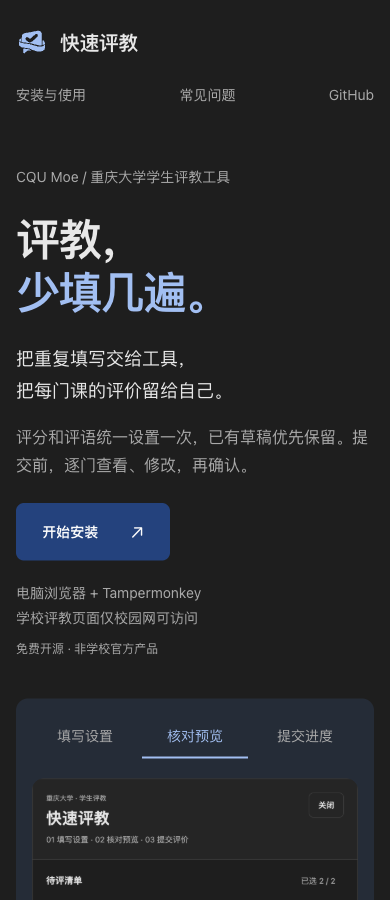
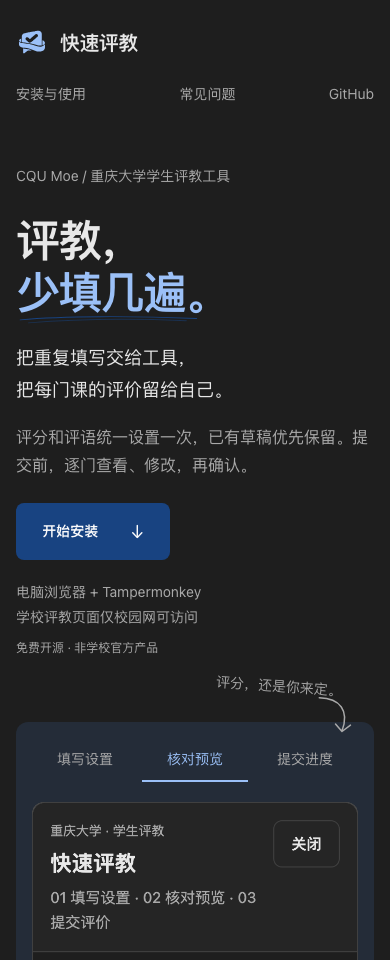
Refine landing hero with hand-drawn accents

diff --git a/website/public/style.css b/website/public/style.css
@@ -28,9 +28,11 @@ a:focus-visible, button:focus-visible, summary:focus-visible { outline: 2px soli
 .version { color: var(--muted-foreground); font: var(--text-xs)/1.8 var(--font-mono); }
 nav { display: flex; gap: var(--space-8); align-items: center; }
 nav a { display: inline-flex; align-items: center; justify-content: center; min-height: 44px; min-width: 44px; color: var(--muted-foreground); font-size: var(--text-sm); }
-.hero { display: grid; grid-template-columns: minmax(0, 1fr) minmax(0, 1.15fr); gap: var(--space-10); align-items: center; padding-block: var(--space-10) calc(var(--space-12) * 2); }
+.hero { display: grid; grid-template-columns: minmax(0, 1fr) minmax(0, 1.15fr); gap: var(--space-10); align-items: center; padding-block: calc(var(--space-8) * 2) calc(var(--space-12) * 2); }
 .eyebrow { font-size: var(--text-sm); color: var(--muted-foreground); margin-bottom: var(--space-8); }
-.hero h1 span { color: var(--brand-ink); }
+.hero h1 span { position: relative; display: inline-block; color: var(--brand-ink); }
+.headline-mark { position: absolute; left: 0; bottom: -.14em; width: 88%; height: .2em; fill: none; stroke: var(--brand-solid); stroke-width: 2; stroke-linecap: round; pointer-events: none; }
+.headline-mark path:last-child { opacity: .5; }
 .hero-description { color: var(--foreground); font-size: var(--text-xl); margin-top: var(--space-8); line-height: 1.8; }
 .hero-detail { max-width: 25em; color: var(--muted-foreground); margin-block: var(--space-4) var(--space-8); }
 .requirements { color: var(--muted-foreground); font-size: var(--text-sm); margin-top: var(--space-5); }
@@ -44,13 +46,15 @@ nav a { display: inline-flex; align-items: center; justify-content: center; min-
 .button.secondary:active { background: var(--muted); }
 .text-link { display: inline-flex; align-items: center; gap: var(--space-3); min-height: 44px; color: var(--link); font-size: var(--text-sm); text-decoration: underline; text-underline-offset: 5px; text-decoration-color: var(--border); }
 .micro { color: var(--muted-foreground); font-size: var(--text-xs); margin-top: var(--space-4); }
-.product-scene { margin: 0; width: 100%; min-width: 0; padding: var(--space-6); background: var(--brand-soft); border-radius: var(--radius-lg); }
+.product-scene { position: relative; margin: 0; width: 100%; min-width: 0; padding: var(--space-6); background: var(--brand-soft); border-radius: var(--radius-lg); }
+.scene-note { position: absolute; top: -48px; right: var(--space-8); color: var(--muted-foreground); font-size: var(--text-sm); transform: rotate(4deg); pointer-events: none; }
+.scene-note svg { position: absolute; width: 42px; height: 42px; top: 18px; right: -16px; fill: none; stroke: currentColor; stroke-width: 1.5; stroke-linecap: round; stroke-linejoin: round; }
 .demo-switch { display: flex; gap: var(--space-1); margin-bottom: var(--space-5); }
 .demo-switch button { flex: 1; min-height: 44px; padding: var(--space-2); border: 0; border-bottom: 2px solid transparent; background: transparent; color: var(--muted-foreground); font-size: var(--text-sm); white-space: nowrap; }
 .demo-switch button[aria-pressed='true'] { color: var(--brand-ink); border-bottom-color: currentColor; }
 .demo-window { border-radius: var(--radius-lg); overflow: hidden; aspect-ratio: 576/608; background: var(--surface); }
 .demo-pane img { width: 100%; height: 100%; object-fit: contain; }
-.product-scene figcaption { display: flex; justify-content: space-between; flex-wrap: wrap; gap: var(--space-1) var(--space-3); margin-top: var(--space-4); color: var(--muted-foreground); font-size: var(--text-xs); }
+.product-scene figcaption { margin-top: var(--space-4); color: var(--muted-foreground); font-size: var(--text-xs); text-align: center; }
 .section { display: grid; grid-template-columns: minmax(0, 1fr) minmax(0, 1.8fr); gap: var(--space-12); align-items: start; padding-block: calc(var(--space-12) * 2); border-top: 1px solid var(--border); }
 .section-head { display: grid; gap: var(--space-4); }
 .section-head > p { color: var(--muted-foreground); }
@@ -92,7 +96,7 @@ summary { cursor: pointer; min-height: 44px; padding-block: var(--space-3); line
 }
 @media (max-width: 960px) {
   .wrap { width: calc(100% - var(--space-6) * 2); }
-  .hero { gap: var(--space-6); padding-block: var(--space-8) var(--space-12); }
+  .hero { gap: var(--space-6); padding-block: calc(var(--space-8) * 2) var(--space-12); }
   .hero-description { font-size: var(--text-lg); }
   .product-scene { padding: var(--space-4); }
   .section { grid-template-columns: minmax(0, 1fr) minmax(0, 2fr); gap: var(--space-8); }
@@ -101,7 +105,7 @@ summary { cursor: pointer; min-height: 44px; padding-block: var(--space-3); line
   .wrap { width: calc(100% - var(--space-4) * 2); }
   .site-header { flex-wrap: wrap; padding-block: var(--space-5) var(--space-2); gap: var(--space-2); }
   .site-header nav { width: 100%; justify-content: space-between; gap: var(--space-4); }
-  .hero { grid-template-columns: 1fr; gap: var(--space-10); padding-block: var(--space-10); }
+  .hero { grid-template-columns: 1fr; gap: calc(var(--space-8) * 2); padding-block: var(--space-10); }
   .hero .eyebrow { margin-bottom: var(--space-6); }
   .hero-description { margin-top: var(--space-6); }
   .hero-detail { margin-bottom: var(--space-6); }
@@ -115,4 +119,8 @@ summary { cursor: pointer; min-height: 44px; padding-block: var(--space-3); line
   .faq summary { font-size: var(--text-base); }
   .site-footer { align-items: flex-start; flex-direction: column; gap: var(--space-3); }
   .site-footer nav { gap: var(--space-5); flex-wrap: wrap; }
+}
+
+@media (max-width: 600px) {
+  .demo-window { aspect-ratio: 304/624; }
 }

diff --git a/website/index.html b/website/index.html
@@ -17,8 +17,10 @@
   <link rel="apple-touch-icon" href="/brand/icon-192.png">
   <link rel="stylesheet" href="/theme.css">
   <link rel="stylesheet" href="/style.css">
-  <link rel="preload" as="image" href="/demo/preview-light.png" media="(prefers-color-scheme: light)">
-  <link rel="preload" as="image" href="/demo/preview-dark.png" media="(prefers-color-scheme: dark)">
+  <link rel="preload" as="image" href="/demo/preview-light.png" media="(width > 600px) and (prefers-color-scheme: light)">
+  <link rel="preload" as="image" href="/demo/preview-dark.png" media="(width > 600px) and (prefers-color-scheme: dark)">
+  <link rel="preload" as="image" href="/demo/preview-mobile-light.png" media="(width <= 600px) and (prefers-color-scheme: light)">
+  <link rel="preload" as="image" href="/demo/preview-mobile-dark.png" media="(width <= 600px) and (prefers-color-scheme: dark)">
   <script src="/main.js" defer></script>
 </head>
 <body>
@@ -36,25 +38,26 @@
     <section class="hero" aria-labelledby="hero-title">
       <div class="hero-copy">
         <p class="eyebrow">CQU Moe / 重庆大学学生评教工具</p>
-        <h1 id="hero-title">评教，<br><span>少填几遍。</span></h1>
+        <h1 id="hero-title">评教，<br><span>少填几遍。<svg class="headline-mark" viewBox="0 0 360 20" preserveAspectRatio="none" aria-hidden="true"><path d="M8 11C91 2 228 2 350 8"/><path d="M24 18C115 9 233 8 330 13"/></svg></span></h1>
         <p class="hero-description">把重复填写交给工具，<br>把每门课的评价留给自己。</p>
         <p class="hero-detail">评分和评语统一设置一次，已有草稿优先保留。提交前，逐门查看、修改，再确认。</p>
-        <a class="button brand-action" href="#install">开始安装<span aria-hidden="true">↗</span></a>
+        <a class="button brand-action" href="#install">开始安装<span aria-hidden="true">↓</span></a>
         <p class="requirements">电脑浏览器 + Tampermonkey<br>学校评教页面仅校园网可访问</p>
         <p class="micro">免费开源 · 非学校官方产品</p>
       </div>
       <figure class="product-scene" id="preview">
+        <p class="scene-note">评分，还是你来定。<svg viewBox="0 0 42 42" aria-hidden="true"><path d="M4 3C25 2 35 14 29 34M22 28L29 35L37 28"/></svg></p>
         <div class="demo-switch" role="group" aria-label="切换脚本界面截图" hidden>
           <button type="button" data-step="settings" aria-pressed="false" aria-controls="demo-settings">填写设置</button>
           <button type="button" data-step="preview" aria-pressed="true" aria-controls="demo-preview">核对预览</button>
           <button type="button" data-step="progress" aria-pressed="false" aria-controls="demo-progress">提交进度</button>
         </div>
         <div class="demo-window">
-          <picture id="demo-settings" class="demo-pane" hidden><source srcset="/demo/settings-dark.png" media="(prefers-color-scheme: dark)"><img src="/demo/settings-light.png" width="576" height="608" alt="填写设置界面：选择满意度档位、综合评分，填写统一评语。" loading="lazy"></picture>
-          <picture id="demo-preview" class="demo-pane"><source srcset="/demo/preview-dark.png" media="(prefers-color-scheme: dark)"><img src="/demo/preview-light.png" width="576" height="608" alt="核对预览界面：勾选待评课程，逐门查看并修改评分和评语。" fetchpriority="high"></picture>
-          <picture id="demo-progress" class="demo-pane" hidden><source srcset="/demo/progress-dark.png" media="(prefers-color-scheme: dark)"><img src="/demo/progress-light.png" width="576" height="608" alt="提交进度界面：显示已经核实的完成数量与逐条提交记录。" loading="lazy"></picture>
+          <picture id="demo-settings" class="demo-pane" hidden><source srcset="/demo/settings-mobile-dark.png" media="(max-width: 600px) and (prefers-color-scheme: dark)"><source srcset="/demo/settings-mobile-light.png" media="(max-width: 600px)"><source srcset="/demo/settings-dark.png" media="(prefers-color-scheme: dark)"><img src="/demo/settings-light.png" width="576" height="608" alt="填写设置界面：选择满意度档位、综合评分，填写统一评语。" loading="lazy"></picture>
+          <picture id="demo-preview" class="demo-pane"><source srcset="/demo/preview-mobile-dark.png" media="(max-width: 600px) and (prefers-color-scheme: dark)"><source srcset="/demo/preview-mobile-light.png" media="(max-width: 600px)"><source srcset="/demo/preview-dark.png" media="(prefers-color-scheme: dark)"><img src="/demo/preview-light.png" width="576" height="608" alt="核对预览界面：展开示例课程，逐项调整评分、综合评分和评语。" fetchpriority="high"></picture>
+          <picture id="demo-progress" class="demo-pane" hidden><source srcset="/demo/progress-mobile-dark.png" media="(max-width: 600px) and (prefers-color-scheme: dark)"><source srcset="/demo/progress-mobile-light.png" media="(max-width: 600px)"><source srcset="/demo/progress-dark.png" media="(prefers-color-scheme: dark)"><img src="/demo/progress-light.png" width="576" height="608" alt="提交进度界面：显示已经核实的完成数量与逐条提交记录。" loading="lazy"></picture>
         </div>
-        <figcaption><span>实际脚本界面 · 合成示例数据</span><span>仅切换截图，不会提交</span></figcaption>
+        <figcaption>示例数据</figcaption>
       </figure>
     </section>
     <section class="section installation" id="install" aria-labelledby="install-title">

diff --git a/website/tests/site.spec.js b/website/tests/site.spec.js
@@ -23,7 +23,7 @@ for (const colorScheme of ['light', 'dark']) for (const width of [320, 390, 768,
       const picture = page.locator(`#${await button.getAttribute('aria-controls')}`);
       await expect(picture).toBeVisible();
       await expect.poll(() => picture.locator('img').evaluate(img => img.complete && img.naturalWidth > 0)).toBe(true);
-      expect(await picture.locator('img').evaluate(img => img.currentSrc)).toContain(`-${colorScheme}.png`);
+      expect(await picture.locator('img').evaluate(img => img.currentSrc)).toContain(`${width <= 600 ? '-mobile' : ''}-${colorScheme}.png`);
     }
     await page.getByRole('button', { name: '核对预览' }).click();
     await page.getByRole('link', { name: '开始安装', exact: true }).click();
@@ -36,6 +36,7 @@ for (const colorScheme of ['light', 'dark']) for (const width of [320, 390, 768,
     await expect(page.locator('.faq details[open]')).toContainText('用户脚本执行权限');
     expect(failures).toEqual([]);
     await page.evaluate(() => scrollTo(0, 0));
+    await page.screenshot({ path: `website/.qa/hero-${width}-${colorScheme}.png` });
     await page.screenshot({ path: `website/.qa/home-${width}-${colorScheme}.png`, fullPage: true });
   });
 }
@@ -97,6 +98,7 @@ test('brand color and readable text survive theme stylesheet precedence', async 
         muted: rgb(style('.hero-detail').color),
         scene: rgb(style('.product-scene').backgroundColor),
         caption: rgb(style('figcaption').color),
+        note: rgb(style('.scene-note').color),
         selected: rgb(style('.demo-switch [aria-pressed="true"]').color),
         button: rgb(style('.button').backgroundColor),
         buttonText: rgb(style('.button').color),
@@ -108,6 +110,6 @@ test('brand color and readable text survive theme stylesheet precedence', async 
       expect(color[2] - color[0]).toBeGreaterThan(50);
       expect(color[2] - color[1]).toBeGreaterThan(30);
     }
-    for (const [text, background] of [['foreground', 'background'], ['muted', 'background'], ['brand', 'background'], ['buttonText', 'button'], ['caption', 'scene'], ['selected', 'scene']]) expect(contrast(colors[text], colors[background])).toBeGreaterThanOrEqual(4.5);
+    for (const [text, background] of [['foreground', 'background'], ['muted', 'background'], ['note', 'background'], ['brand', 'background'], ['buttonText', 'button'], ['caption', 'scene'], ['selected', 'scene']]) expect(contrast(colors[text], colors[background])).toBeGreaterThanOrEqual(4.5);
   }
 });

diff --git a/docs/website.md b/docs/website.md
@@ -54,9 +54,9 @@ Dry run 只验证构建和部署打包。生产验收还需核对 Git Connector 
 
 ## 设计与品牌来源
 
-按 CQU Design 的静态内容站 theme-only 路径接入 **theme 1.2.0**，不引入 React UI 包。来源为 [design v1.2.0](https://github.com/cqu-moe/design/releases/tag/v1.2.0)，使用正式 tarball 并核对发行 SHA256SUMS，保留 npm 锁文件。统一蓝色决策取代先前的赭金与暖中性色例外；网页直接引用共享 `--brand-ink`、`--brand-soft`。只有 `.brand-action` 局部将主按钮映射到 `--brand-solid` / `--brand-on-solid`，根级 primary 和工作界面保持黑白。页面内的 `design-exception` 只用于营销标题字号，检查器对整份 CSS 校验颜色，不再豁免品牌色值。
+按 CQU Design 的静态内容站 theme-only 路径接入 **theme 1.2.0**，不引入 React UI 包。来源为 [design v1.2.0](https://github.com/cqu-moe/design/releases/tag/v1.2.0)，使用正式 tarball 并核对发行 SHA256SUMS，保留 npm 锁文件。统一蓝色决策取代先前的赭金与暖中性色例外；网页直接引用共享品牌变量。只有 `.brand-action` 局部将主按钮映射到 `--brand-solid` / `--brand-on-solid`，根级 primary 和工作界面保持黑白。页面内的 `design-exception` 只用于营销标题字号，检查器对整份 CSS 校验颜色，不再豁免品牌色值。
 
-页面以实际脚本截图、四步安装、使用边界和常见问题为主。首屏只有一个主要安装动作，明确电脑浏览器、Tampermonkey、校园网和非学校官方身份；截图外围仅一层浅品牌衬底，内部保留实际中性窗口，文字注明合成数据且点击只切换截图。安装区与使用边界采用左侧标题、右侧正文的布局，小屏恢复单列。评分由用户决定、草稿保留、确认后提交及隐私边界放在正文中，不只藏在 FAQ。无滚动入场、远程字体、自动轮播或新增运行时依赖；首屏截图按系统主题预加载。
+页面以实际脚本截图、四步安装、使用边界和常见问题为主。首屏保留中性页面、蓝色强调标题和浅蓝预览区，只有一个主要安装动作，电脑浏览器、Tampermonkey、校园网和非学校官方身份在首屏可见。标题下用两笔曲线强调“少填几遍”，预览上方用“评分，还是你来定”的旁注与弯箭头呼应逐门核对；装饰为内联 SVG，不响应指针、不进入辅助技术树，也不自动播放。默认展开一条示例课程展示逐项评分，图注只保留“示例数据”。安装区与使用边界采用左侧标题、右侧正文的布局，小屏恢复单列。评分由用户决定、草稿保留、确认后提交及隐私边界放在正文中，不只藏在 FAQ。无滚动入场、远程字体、自动轮播或新增运行时依赖；首屏截图按视口与系统主题预加载。
 
 Logo 的唯一来源是 `cqu-moe/design` 的 `v1.2.0` tag 下 `assets/brand/path-family/jxzljc/`；`source/marks.json` 保留已批准的气泡/勾选轮廓，配色来自共享主题 token。原稿、提取记录与透明素材保存在 design 中。页面显示蓝色浅深双版本，SVG favicon 自适应系统主题，ICO 与应用图标同步更新。官网没有手动主题切换，因此图片与页面均跟随同一个系统偏好。
 
@@ -71,7 +71,7 @@ node scripts/brand.mjs check jxzljc /path/to/jxzljc
 
 ## 演示截图
 
-`website/public/demo/` 是实际用户脚本的设置、预览、完成界面，每种界面各有浅深两张 PNG。它们使用合成课程与教师名称，所有请求均在浏览器边界被本地响应或拦截，不连接学校服务器。生成命令：
+`website/public/demo/` 是实际用户脚本的设置、预览、完成界面，每种界面各有桌面和小屏、浅深主题四张 PNG。两组截图分别运行于 608px 与 320px 视口；官网在 600px 以下选用真实小屏布局截图，避免把完整桌面界面缩到难以辨认。它们使用合成课程与教师名称，所有请求均在浏览器边界被本地响应或拦截，不连接学校服务器。生成命令：
 
 ```sh
 npm run capture:website
@@ -87,9 +87,9 @@ npm run build:website
 ## 2026-10-21 · issue #9 本地验证
 
 - 1.2.0 正式 theme tarball SHA-256 与发行清单一致；design `v1.2.0` 的品牌同步工具与资源已逐字节核对，13 个消费素材通过 `brand:check`。
-- `npm run build`、`check`、`check:design`、`build:website`、`check:website` 通过；30 项脚本交互、11 项官网交互及 9 项同步协议测试通过。新增检查约束官网实际蓝色和脚本黑白主按钮；正文、强调文字、按钮及截图衬底上的说明和选中标签均至少 4.5:1。
+- `npm run build`、`check`、`check:design`、`build:website`、`check:website` 通过；30 项脚本交互、11 项官网交互及 9 项同步协议测试通过。新增检查约束官网实际蓝色和脚本黑白主按钮；正文、强调文字、按钮、旁注及截图衬底上的说明和选中标签均至少 4.5:1。
 - 官网和脚本均覆盖 320 / 390 / 768 / 1440px × 浅深主题，检查无溢出、断图、44px 操作区域、键盘焦点和主题刷新；脚本输入至少 16px。官网无 JavaScript 时安装与问答仍可用。
-- 重新生成六张合成演示图，`source.json` 匹配 v0.3.4 脚本哈希。除版本与生成主题区外，脚本源码与升级前完全一致，草稿、核对、返回与失败恢复由原交互测试覆盖。
+- 重新生成十二张合成演示图，`source.json` 匹配 v0.3.4 脚本哈希。除版本与生成主题区外，脚本源码与升级前完全一致，草稿、核对、返回与失败恢复由原交互测试覆盖。
 - 在浏览器实看[桌面浅色首屏](screenshots/website-light.png)、[手机深色首屏](screenshots/website-dark-mobile.png)和完整长页；实看正式 Logo 的 16 / 24 / 32px、应用图标和 SVG / ICO favicon。16px 层叠细节较少，轮廓保留可辨认性。
 - `npm run deploy:website -- --dry-run` 通过，仅构建与打包，没有执行部署。远端 CI 见对应 PR；生产 Git Connector 构建、线上读回、Greasy Fork 发布与真实安装不由本地检查证明。
 
